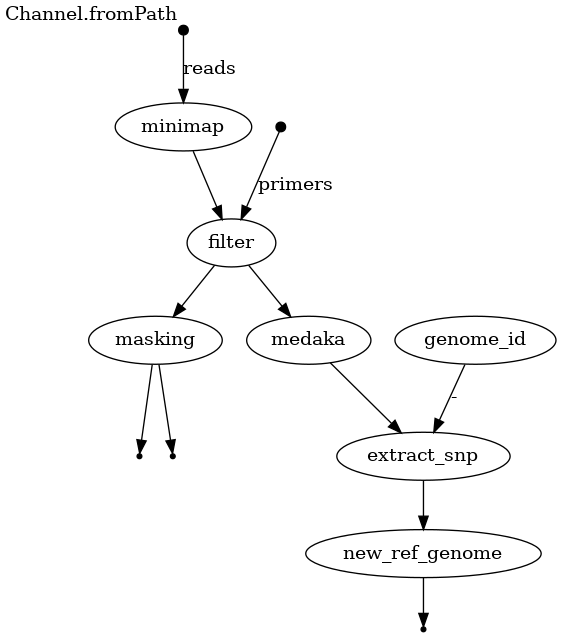
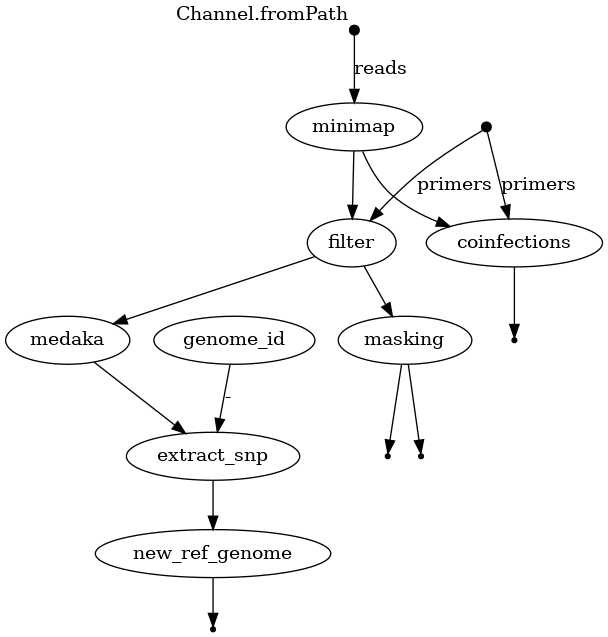
coinfections.nf module added
- Lot of files where renamed to clarify contamination / coinfections
  Contamination term should only refer to kraken2 processing.

diff --git a/bin/predict_coinfections_nanopore.py b/bin/predict_coinfections_nanopore.py
@@ -1,0 +1,56 @@
+#!/usr/bin/env python3
+
+import sys
+
+import matplotlib.pyplot as plt
+import pandas as pd
+import seaborn as sns
+from scipy.stats import kstest
+
+path1 = sys.argv[1]  # plik wynikowy z Varscana naszego sample
+title = sys.argv[2]
+path2 = sys.argv[3]  # plik wynikowy z Varscna probki 04 / zanieczyszczona/
+path3 = sys.argv[4]  # plik wynikowy z Varscna probki 05 / zanieczyszczona /
+
+# przerabiamy wektor procentow z kazdeg
+# uzywamy tylko mutacji a nie indeli ...
+dane_sample = pd.read_csv(path1, sep='\t')
+dane_sample.VarFreq = [float(x.split('%')[0]) / 100 for x in dane_sample.VarFreq]
+dane_sample_fortest = [x for x in dane_sample.VarFreq if 0.1 <= x <= 0.9]
+
+# Sample04
+dane_sample_04 = pd.read_csv(path2, sep='\t')
+dane_sample_04.VarFreq = [float(x.split('%')[0]) / 100 for x in dane_sample_04.VarFreq]
+dane_sample_04_fortest = [x for x in dane_sample_04.VarFreq if 0.1 <= x <= 0.9]
+
+# SAmple05
+dane_sample_05 = pd.read_csv(path3, sep='\t')
+dane_sample_05.VarFreq = [float(x.split('%')[0]) / 100 for x in dane_sample_05.VarFreq]
+dane_sample_05_fortest = [x for x in dane_sample_05.VarFreq if 0.1 <= x <= 0.9]
+if len(dane_sample_fortest) == 0:
+    dane_sample_fortest = [0.1]
+
+# Rysowanie histogramu z uzyciem allelu alternatywnego
+f, ax = plt.subplots(figsize=(7, 5))
+sns.despine(f)
+sns.histplot(dane_sample_fortest)
+ax.set_xlim([0, 1])
+ax.set_title(f'Alternative alleles frequencies for {title}')
+f.savefig(f'{title}_alternative_alleles_frequencies.png', dpi=600)
+
+# Test ks
+pval_sample04 = kstest(dane_sample_fortest, dane_sample_04_fortest, N=50).pvalue
+pval_sample05 = kstest(dane_sample_fortest, dane_sample_05_fortest, N=50).pvalue
+
+# Prosta regula oba p-valu ponizek 0.1 nie zanieczyszczona, oba powyzej zanieczyszczona
+
+with open(f'{title}_coinfections_summary.txt', 'w') as f:
+    if len(dane_sample_fortest) < 20:
+        f.write(f'{title} is not coinfected with other SARS-CoV-2 material low number\n')
+    else:
+        if pval_sample04 < 0.1 and pval_sample05 < 0.1:
+            f.write(f'{title} is not coinfected with other SARS-CoV-2 material\t{pval_sample04}\t{pval_sample05}\n')
+        elif pval_sample04 > 0.1 and pval_sample05 > 0.1:
+            f.write(f'{title} is coinfected with other SARS-CoV-2 material\t{pval_sample04}\t{pval_sample05}\n')
+        elif pval_sample04 > 0.1 or pval_sample05 > 0.1:
+            f.write(f'{title} might be coinfected with other SARS-CoV-2 material\t{pval_sample04}\t{pval_sample05}\n')
